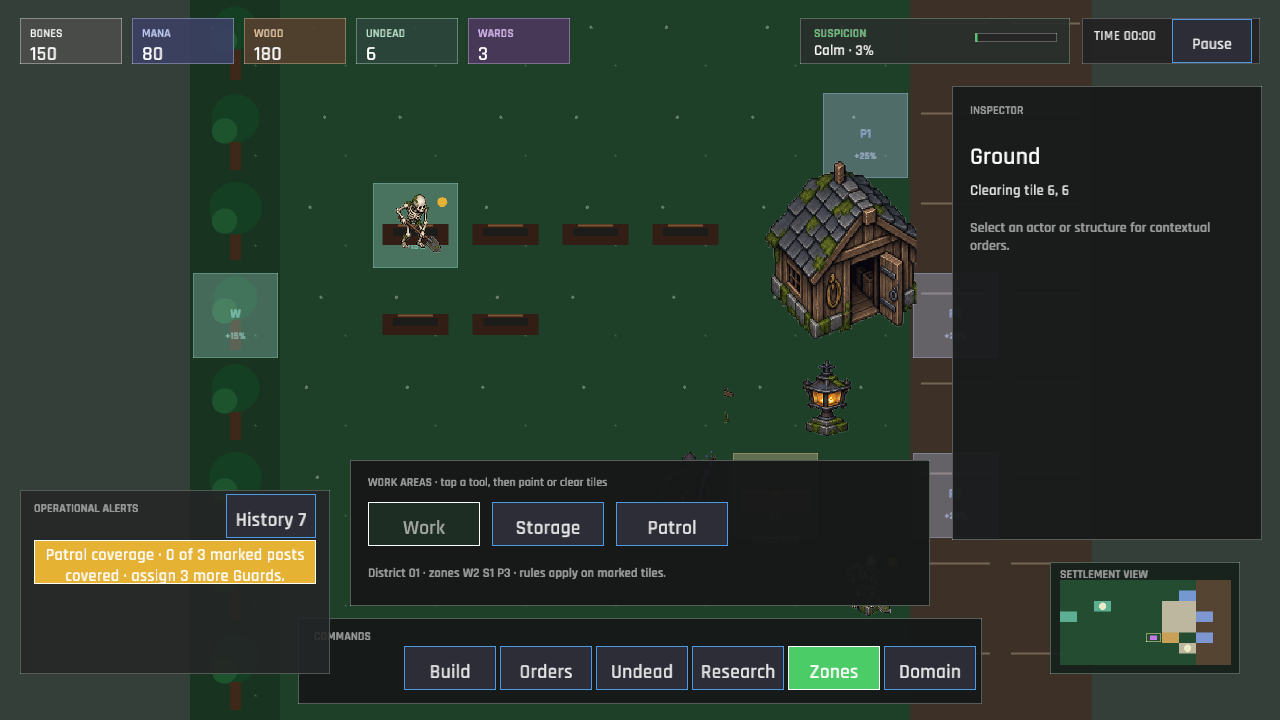
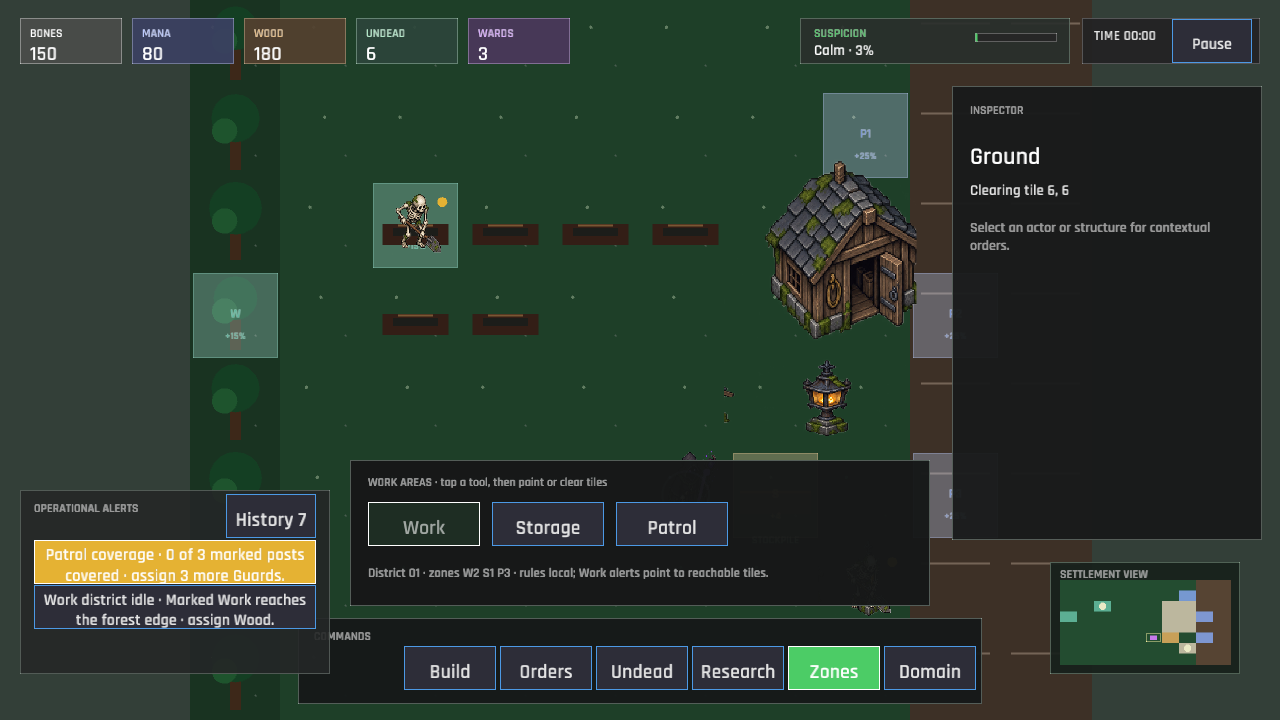
The workyard teaches the eye where idle hands should go (work area guidance)
The Work Areas panel now explains that Domain Work alerts point to reachable tiles, in both desktop and compact layouts. The refreshed colony capture confirms the guidance fits beside the alert tray without disturbing the existing touch-sized controls.

Changed region(s): [[0.0312, 0.825, 0.25, 0.8861], [0.4375, 0.7639, 0.5938, 0.825]]

diff --git a/src/ui/research.rs b/src/ui/research.rs
@@ -197,7 +197,7 @@ pub(super) fn draw_zones_panel(ctx: &UiContext<'_>, pointer: Pointer, actions: &
         .is_unlocked(Technology::DomainStewardship)
     {
         format!(
-            "District 01 · zones W{} S{} P{} · rules apply on marked tiles.",
+            "District 01 · zones W{} S{} P{} · rules local; Work alerts point to reachable tiles.",
             zone_count(ctx, ZoneKind::Work),
             zone_count(ctx, ZoneKind::Storage),
             zone_count(ctx, ZoneKind::Patrol),

diff --git a/src/ui/responsive/panels.rs b/src/ui/responsive/panels.rs
@@ -279,7 +279,7 @@ fn draw_compact_zones_panel(
         .research
         .is_unlocked(Technology::DomainStewardship)
     {
-        "Mark a Work, Storage, or Patrol tile; Domain bonuses stay local."
+        "Mark a Work, Storage, or Patrol tile; bonuses stay local. Work alerts point to reachable work."
     } else {
         "Choose a tool, then tap world tiles to mark or clear them."
     };
